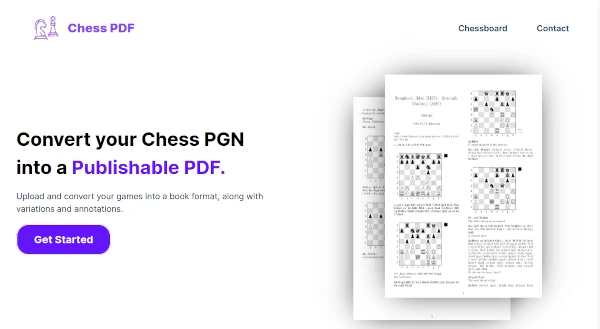
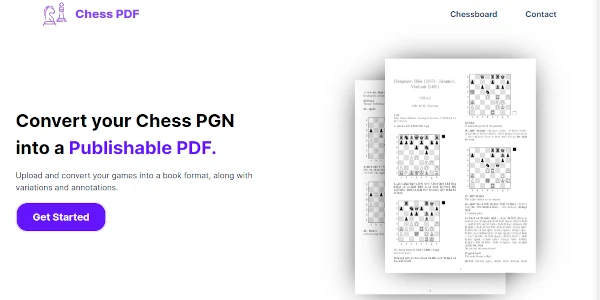
uniform image sizing

diff --git a/client/src/components/Featured.tsx b/client/src/components/Featured.tsx
@@ -1,8 +1,8 @@
-import echecsfrance from "../assets/images/portfolio/images/echecsfrance.png";
-import plantIDBot from "../assets/images/portfolio/images/plantIDBot.png";
-import chessPDF from "../assets/images/portfolio/images/chessPDF.png";
+import echecsfrance from "../assets/images/portfolio/images/echecsfrance.jpg";
 import echecsfranceThumbnail from "../assets/images/portfolio/thumbnails/echecsfrance.webp";
-import plantIDBotThumbnail from "../assets/images/portfolio/thumbnails/plantIDBot.webp";
+import plantIDBot from "../assets/images/portfolio/images/plantID.jpg";
+import plantIDBotThumbnail from "../assets/images/portfolio/thumbnails/plantID.webp";
+import chessPDF from "../assets/images/portfolio/images/chessPDF.jpg";
 import chessPDFThumbnail from "../assets/images/portfolio/thumbnails/chessPDF.webp";
 
 import Project from "./Project.tsx";
